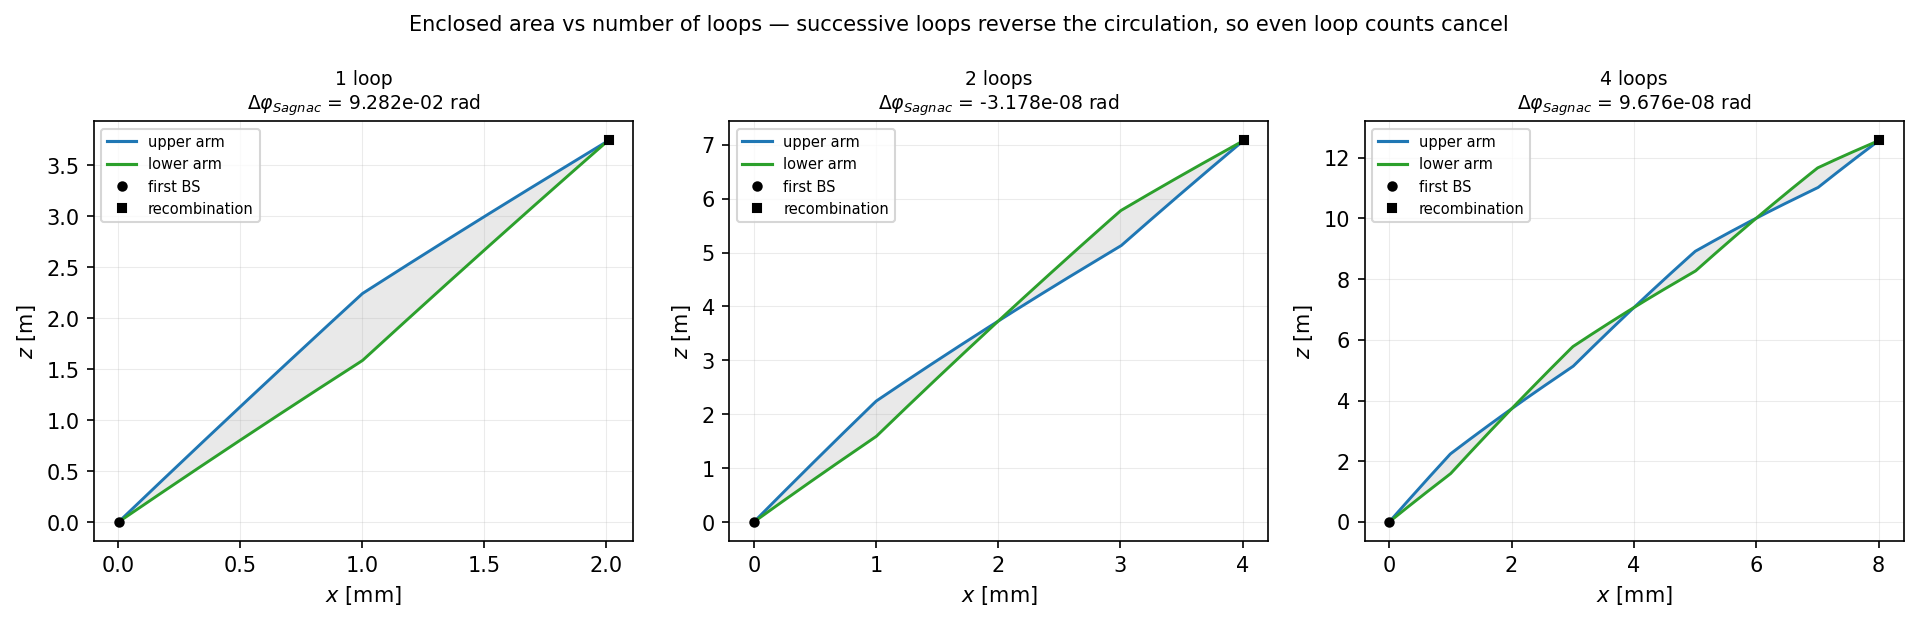
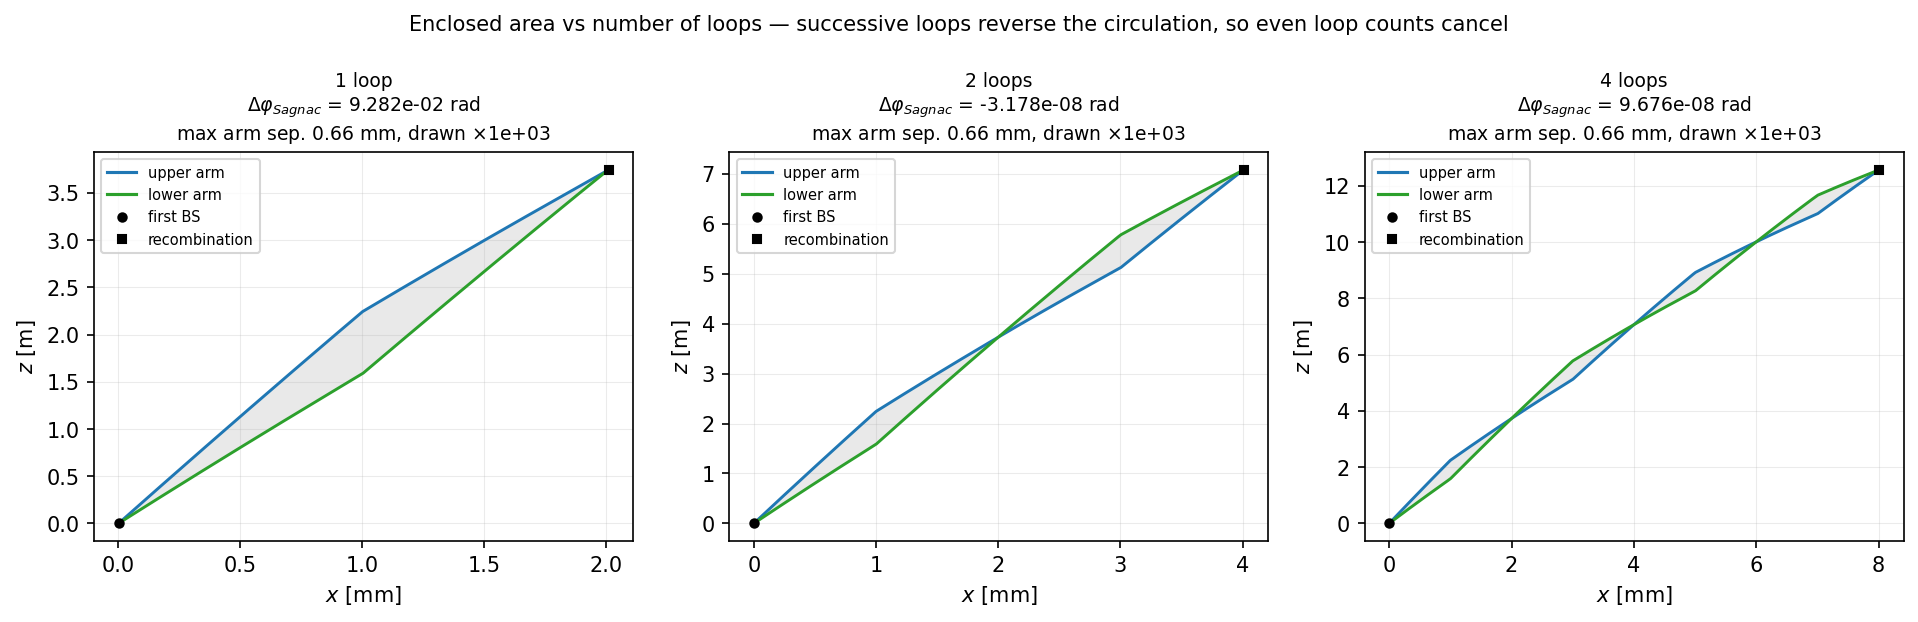
Add long-baseline examples and study what closes a rotating interferometer
Long-baseline configuration: T = 1.25 s with the launch velocity chosen so the
atom returns to its starting height at recombination, giving 2.5 / 5 / 10 s of
total free fall and 7.7 / 31 / 123 m apex for 1, 2 and 4 loops. A single loop
encloses 1.0e-4 m^2 and accumulates 14.5 rad of Sagnac phase; even loop counts
still cancel to ~1e-5 rad.

Closure study. A Mach-Zehnder does not close in a rotating frame: the arms
differ by the recoil velocity hbar k/m along k, the Coriolis force acts on that
difference, and they end up transversely separated by

    dx = 2 Omega_perp (hbar k / m) T^2

which the simulation reproduces to 0.05%. This is a *differential* effect, so no
common-mode launch velocity removes it -- scanning v0x from 0 to 0.2 m/s (and
v0y likewise) leaves the residual unchanged to nine significant figures. What
does work is counter-rotating k_eff with the frame, the simulation counterpart
of a tip-tilt retroreflector. apply_tilt_compensation() rewrites the per-pulse
kx/ky so k is held fixed in the inertial frame,

    k(t) = k(0) - (Omega x k(0)) t,

which shrinks the opening by ~1e6; the residual grows linearly with any
mismatch in the tilt rate and changes sign through the matched value. Eight new
end-to-end checks cover all of this (27 total, up from 19).

Figure fixes. The loop-comparison panels dropped the separation-exaggeration
factor that plot_trajectory_planes puts in its titles, so the arms looked metres
[…]

diff --git a/tests/make_coriolis_figures.py b/tests/make_coriolis_figures.py
@@ -27,6 +27,9 @@ coriolis_fountain.png              long: uniform gravity + Coriolis, the full
                                    parabolic fountain and its deflections
 coriolis_longbaseline_planes.png   long: arm traces on the three planes
 coriolis_longbaseline_loops.png    long: 1/2/4-loop enclosed areas, 2.5-10 s
+coriolis_closure.png               long: why no launch velocity closes a
+                                   rotating-frame interferometer, and how
+                                   counter-rotating k does
 
 The rotation vector is Earth's, oriented for latitude 45 deg with z vertical and
 x pointing east, so all three coordinate planes carry some signal.
@@ -255,6 +258,89 @@ def fig_loops(runs, outdir, name, loops=(1, 2, 4), labels=None):
     return p
 
 
+# ── figure: what actually closes the interferometer ──────────────────────────
+
+def fig_closure(outdir, workdir):
+    """
+    A Mach-Zehnder does not close in a rotating frame. Show why no launch
+    velocity fixes it, and what does.
+    """
+    T, L = 1.25, 1
+    hbar, mass = 1.054571817e-34, 86.90888 * 1.660539066e-27
+    u = hbar * cc.K_EFF / mass                       # single-photon recoil
+    predicted = 2 * OMEGA_VEC[1] * u * T * T
+
+    def case(tag, **kw):
+        r = cc.run_case(tag, workdir, utype=POT, rotation=OMEGA_VEC,
+                        loopnumber=L, interrogation_time=T, fountain=True,
+                        ultrafast=1, printtrajectory=True, **kw)
+        up, lo = arms(r)
+        t, ip = common_grid(up, lo)
+        return t, np.array([ip(up, k) - ip(lo, k) for k in 'xyz'])
+
+    v0x_list = [0.0, 0.01, 0.05, 0.2]
+    vel_runs = [(v, case(f'close_vx{v}', v0x=v)) for v in v0x_list]
+    tilt_scan = [0.0, 0.5, 0.9, 1.0, 1.1, 1.5, 2.0]
+    tilt_runs = [(f, case(f'close_tilt{f}', v0x=0.01,
+                          tilt_compensation=OMEGA_VEC * f)) for f in tilt_scan]
+
+    fig, axs = plt.subplots(1, 3, figsize=(14, 4.4))
+
+    # (a) launch velocity does nothing to the closure
+    cmap = plt.get_cmap('viridis')
+    for i, (v, (t, d)) in enumerate(vel_runs):
+        axs[0].plot(t, d[0] * 1e9, lw=1.4, color=cmap(i / max(1, len(vel_runs) - 1)),
+                    label=f'$v_{{0x}}$ = {v:g} m/s')
+    axs[0].axhline(-predicted * 1e9, color='k', ls=':', lw=1.0)
+    axs[0].annotate('$-2\\,\\Omega_\\perp\\,(\\hbar k/m)\\,T^2$',
+                    xy=(t[len(t)//2], -predicted * 1e9), fontsize=8,
+                    xytext=(0.08, 0.12), textcoords='axes fraction',
+                    arrowprops=dict(arrowstyle='->', lw=0.8))
+    axs[0].set_ylabel('$\\Delta x$ between arms [nm]')
+    axs[0].set_title('(a) launch velocity cannot close it —\n'
+                     'all four curves coincide', fontsize=9)
+    axs[0].legend(fontsize=7)
+
+    # (b) tilting the wavevector does
+    for i, (f, (t, d)) in enumerate(tilt_runs):
+        lw = 2.0 if f == 1.0 else 1.1
+        col = '#d62728' if f == 1.0 else cmap(i / max(1, len(tilt_runs) - 1))
+        axs[1].plot(t, d[0] * 1e9, lw=lw, color=col,
+                    label=f'{f:g}$\\,\\Omega$' + (' (matched)' if f == 1.0 else ''))
+    axs[1].set_ylabel('$\\Delta x$ between arms [nm]')
+    axs[1].set_title('(b) counter-rotating $\\vec{k}$ does:\n'
+                     'tilt rate as a fraction of $\\Omega$', fontsize=9)
+    axs[1].legend(fontsize=7, ncol=2)
+
+    # (c) residual vs tilt rate
+    resid = [abs(d[0][-1]) for _, (t, d) in tilt_runs]
+    axs[2].plot(tilt_scan, np.array(resid) * 1e9, 'o-', color='#1f77b4', lw=1.4)
+    axs[2].set_yscale('log')
+    axs[2].set_xlabel('tilt rate / $\\Omega$')
+    axs[2].set_ylabel('$|\\Delta x|$ at recombination [nm]')
+    axs[2].set_title('(c) residual opening vs tilt rate\n'
+                     f'{resid[0]*1e9:.0f} nm $\\rightarrow$ '
+                     f'{resid[tilt_scan.index(1.0)]*1e12:.2f} pm at matched rate',
+                     fontsize=9)
+
+    for ax in axs[:2]:
+        ax.set_xlabel('$t$ [s]')
+    for ax in axs:
+        ax.grid(alpha=0.25, lw=0.5)
+        ax.axhline(0, color='k', lw=0.6, alpha=0.4)
+
+    fig.suptitle('Closing a rotating-frame interferometer. The arms differ by the '
+                 'recoil velocity $\\hbar k/m$ along $\\vec{k}$, and the Coriolis '
+                 'force acts on that difference — a *differential* effect, so no '
+                 'common-mode launch velocity can undo it.', fontsize=11)
+    fig.tight_layout()
+    p = save(fig, outdir, 'coriolis_closure.png')
+    print(f'      predicted opening 2*Om*(hbar k/m)*T^2 = {predicted:.4e} m')
+    for f, (t, d) in tilt_runs:
+        print(f'      tilt {f:4.2f} x Omega -> |dx| = {abs(d[0][-1]):.4e} m')
+    return p
+
+
 def save(fig, outdir, name):
     p = os.path.join(outdir, name)
     fig.savefig(p, dpi=150, bbox_inches='tight')
@@ -295,9 +381,10 @@ def main():
                    'long-baseline fountain: $T$ = 1.25 s, 2.5 s free fall, '
                    '7.7 m apex')
         fig_loops(runs, outdir, 'coriolis_longbaseline_loops.png',
-                  labels=['1 loop\n2.5 s, 7.7 m',
-                          '2 loops\n5.0 s, 31 m',
-                          '4 loops\n10.0 s, 123 m'])
+                  labels=['1 loop — 2.5 s, 7.7 m',
+                          '2 loops — 5.0 s, 31 m',
+                          '4 loops — 10.0 s, 123 m'])
+        fig_closure(outdir, workdir)
 
 
 if __name__ == '__main__':

diff --git a/tests/coriolis_common.py b/tests/coriolis_common.py
@@ -66,7 +66,8 @@ K_EFF = float(kz)
 
 
 def build_param_dict(utype='linear_pot', rotation=None, loopnumber=1,
-                     interrogation_time=None, v0x=None, printtrajectory=False,
+                     interrogation_time=None, v0x=None, v0y=0.0,
+                     printtrajectory=False,
                      rabi_freq=None, v0z=None, fountain=False,
                      ultrafast=0, qag_abs=1e-13, qag_rel=1e-13):
     """
@@ -106,7 +107,7 @@ def build_param_dict(utype='linear_pot', rotation=None, loopnumber=1,
             'longtemp':     0,
             'transtemp':    0,
             'x0':           [0.0, 0.0, 0.0],
-            'v0':           [float(vx), 0.0, float(vz)],
+            'v0':           [float(vx), float(v0y), float(vz)],
         },
         'potential_params': potential_params,
         'sequence_params': {
@@ -174,7 +175,69 @@ def build_param_dict(utype='linear_pot', rotation=None, loopnumber=1,
     }
 
 
-def run_case(name, workdir, **kwargs):
+def apply_tilt_compensation(aisi_path, omega):
+    """
+    Rewrite the kx/ky lines of an .aisi file so that the effective wavevector is
+    held fixed in the *inertial* frame rather than in the rotating one.
+
+    This is the simulation counterpart of counter-rotating the retroreflector
+    ("tip-tilt compensation"), the standard way real experiments recover the
+    contrast a rotating frame would otherwise destroy.
+
+    Why it is needed: a Mach-Zehnder does not close in a rotating frame. The two
+    arms differ by the recoil velocity u = hbar k / m along k, and the Coriolis
+    acceleration -2 Omega x v acts on that difference, leaving the arms
+    transversely separated by 2 |Omega_perp| u T^2 at recombination. That is a
+    *differential* effect, so no common-mode launch velocity can undo it -- only
+    changing the direction of the momentum kicks can.
+
+    Holding k fixed in inertial space means its rotating-frame components obey
+    k(t) = R(-Omega t) k(0), i.e. to first order in Omega t
+
+        k(t) = k(0) - (Omega x k(0)) t.
+
+    Each pulse gets the tilt appropriate to its own firing time, with the sign
+    following that pulse's beam direction.
+    """
+    omega = np.asarray(omega, dtype=float)
+
+    lines = open(aisi_path).read().splitlines()
+    values = {}
+    for ln in lines:
+        parts = ln.split()
+        if parts and parts[0] in ('t0', 'kx', 'ky', 'kz'):
+            values[parts[0]] = [float(x) for x in parts[1:]]
+
+    for key in ('t0', 'kx', 'ky', 'kz'):
+        if key not in values:
+            raise RuntimeError(f'{aisi_path}: no "{key}" line to tilt-compensate')
+
+    t0, kx, ky, kz = values['t0'], values['kx'], values['ky'], values['kz']
+    if not (len(t0) == len(kx) == len(ky) == len(kz)):
+        raise RuntimeError(f'{aisi_path}: pulse arrays have inconsistent lengths')
+
+    new_kx, new_ky = [], []
+    for t, x, y, z in zip(t0, kx, ky, kz):
+        k = np.array([x, y, z])
+        tilted = k - np.cross(omega, k) * t
+        # plain Python floats: repr() of a numpy scalar is "np.float64(...)" on
+        # numpy >= 2, which the ais++ parser silently fails to read
+        new_kx.append(float(tilted[0]))
+        new_ky.append(float(tilted[1]))
+
+    out = []
+    for ln in lines:
+        parts = ln.split()
+        if parts and parts[0] == 'kx':
+            out.append('kx ' + ' '.join(f'{v:.17g}' for v in new_kx) + ' ')
+        elif parts and parts[0] == 'ky':
+            out.append('ky ' + ' '.join(f'{v:.17g}' for v in new_ky) + ' ')
+        else:
+            out.append(ln)
+    open(aisi_path, 'w').write('\n'.join(out) + '\n')
+
+
+def run_case(name, workdir, tilt_compensation=None, **kwargs):
     """
     Build an input, run ais++, and return a dict with the interfering phase
     shift and the paths of the output files.
@@ -188,6 +251,9 @@ def run_case(name, workdir, **kwargs):
     out  = os.path.join(workdir, name + '.h5')
     prob = os.path.join(workdir, name + '_PROB.h5')
     traj = os.path.join(workdir, name + '_TRAJ.h5')
+
+    if tilt_compensation is not None:
+        apply_tilt_compensation(aisi, tilt_compensation)
 
     proc = subprocess.run([AISPP_BIN, '-i', aisi, '-o', out],
                           capture_output=True, text=True)

diff --git a/tests/test_coriolis_e2e.py b/tests/test_coriolis_e2e.py
@@ -302,6 +302,59 @@ def test_closure():
               f'{gaps[L]:.3e} m vs {gaps[1]:.3e} m at L=1')
 
 
+# ── 8. what closes a rotating-frame interferometer ───────────────────────────
+
+def test_tilt_compensation():
+    section('8. Closing the interferometer: launch velocity vs tilting k')
+
+    from aispy.trajectory import arm_loop
+
+    T = float(cc.INTERROGATION_TIME)
+    recoil_v = 1.054571817e-34 * cc.K_EFF / (86.90888 * 1.660539066e-27)
+    predicted = 2 * OMEGA * recoil_v * T * T
+
+    def sep(tag, **kw):
+        ref = run(tag, utype='rotating_linear_pot', rotation=[0, OMEGA, 0],
+                  loopnumber=1, printtrajectory=True, **kw)
+        loop = arm_loop(load_trajectory(ref['trajectory']),
+                        potential='rotating_linear_pot')
+        return (loop['upper'] - loop['lower'])[-1]
+
+    # (a) the opening is exactly the predicted differential Coriolis effect
+    base = sep('TC_base')
+    check_close(abs(base[0]), predicted, 1e-3,
+                'transverse opening equals 2 Omega (hbar k/m) T^2')
+
+    # (b) no launch velocity changes it: the opening is differential, and a
+    # launch velocity is common mode
+    for v0x in (0.05, 0.2):
+        d = sep(f'TC_vx{v0x}', v0x=v0x)
+        check_close(d[0], base[0], 1e-9,
+                    f'launch velocity v0x={v0x} does not change the opening')
+    d = sep('TC_vy', v0y=0.05)
+    check_close(d[0], base[0], 1e-9, 'launch velocity v0y does not change it either')
+
+    # (c) counter-rotating k_eff with the frame does close it
+    omega_vec = np.array([0.0, OMEGA, 0.0])
+    matched = sep('TC_tilt1', v0x=0.01, tilt_compensation=omega_vec)
+    print(f'    uncompensated |dx| = {abs(base[0]):.4e} m')
+    print(f'    tilt-compensated   = {abs(matched[0]):.4e} m')
+    check(abs(matched[0]) < 1e-4 * abs(base[0]),
+          'counter-rotating k closes the interferometer',
+          f'reduced by {abs(base[0])/abs(matched[0]):.3g}x')
+
+    # (d) a mismatched tilt leaves a residual proportional to the mismatch,
+    # which is what pins the mechanism down
+    half = sep('TC_tilt05', v0x=0.01, tilt_compensation=0.5 * omega_vec)
+    over = sep('TC_tilt15', v0x=0.01, tilt_compensation=1.5 * omega_vec)
+    check_close(abs(half[0]), 0.5 * abs(base[0]), 1e-3,
+                'half tilt leaves half the opening')
+    check_close(abs(over[0]), 0.5 * abs(base[0]), 1e-3,
+                'over-tilting by the same amount overshoots symmetrically')
+    check(np.sign(half[0]) == -np.sign(over[0]),
+          'the residual changes sign through the matched tilt rate')
+
+
 def main():
     ap = argparse.ArgumentParser()
     ap.add_argument('--quick', action='store_true',
@@ -321,6 +374,7 @@ def main():
     test_centrifugal()
     test_multiloop(args.quick)
     test_closure()
+    test_tilt_compensation()
 
     print(f'\n{_checks} checks, {_failures} failures  '
           f'({len(_cache)} simulations, {time.time()-t0:.1f} s)')

diff --git a/README.md b/README.md
@@ -118,6 +118,33 @@ rather than the simulated phase. It is needed because the action reaches $\sim10
 multi-second flight, which puts the tight absolute quadrature tolerance the short runs use below
 double precision — loosen `gslqagabserr` if you need the action phase at these timescales.
 
+These examples use `lmt_order 1`, i.e. a single photon recoil, not LMT. The arm separation is
+$\hbar k/m \cdot T$ = 6.57 mm/s × 1.25 s = **8.2 mm** — large because $T$ is long, not because of
+LMT. In the plane plots the separation is drawn exaggerated by the factor stated in each panel.
+
+### Closing the interferometer
+
+A Mach–Zehnder **does not close** in a rotating frame. The two arms differ by the recoil velocity
+$\hbar k/m$ along $\vec k$, and the Coriolis force $-2\vec\Omega\times\dot{\vec r}$ acts on that
+difference, leaving them transversely separated at recombination by
+
+$$\Delta x = 2\,\Omega_\perp\,\frac{\hbar k}{m}\,T^2$$
+
+which the simulation reproduces to 0.05 %. Because this is a *differential* effect, **no
+common-mode launch velocity removes it** — scanning $v_{0x}$ from 0 to 0.2 m/s leaves the residual
+unchanged to nine significant figures. What does work is counter-rotating $\vec k_\mathrm{eff}$
+with the frame, the simulation counterpart of a tip-tilt retroreflector:
+`coriolis_common.apply_tilt_compensation` rewrites the per-pulse `kx`/`ky` so that
+$\vec k$ is held fixed in the *inertial* frame, $\vec k(t) = \vec k(0) - (\vec\Omega\times\vec k(0))\,t$.
+
+![Launch velocity cannot close a rotating-frame interferometer, but counter-rotating the
+wavevector can.](examples/coriolis/coriolis_closure.png)
+
+*(a) Four launch velocities spanning 0–0.2 m/s give identical arm openings, all landing on
+$-2\Omega_\perp(\hbar k/m)T^2$. (b) Counter-rotating $\vec k$ at a fraction of $\Omega$; the matched
+rate brings the arms back together. (c) The residual falls by $\sim10^6$ at the matched rate and
+grows linearly with the mismatch, changing sign through it.*
+
 ### Tests
 
 ```bash
@@ -135,6 +162,13 @@ The end-to-end suite decomposes the phase into parts odd and even in $\vec\Omega
 $\pm\vec\Omega$), which cleanly separates the Sagnac term from the centrifugal one. It confirms
 the odd part against $2m\vec\Omega\cdot\vec A/\hbar$ to $2\times10^{-5}$, its linearity in
 $\Omega$ to $7\times10^{-5}$, and its $T^2$ scaling to $8\times10^{-4}$.
+
+Note the Sagnac phases quoted on the figures are computed **geometrically**, from
+$2m\vec\Omega\cdot\vec A/\hbar$ with $\vec A$ the area enclosed by the simulated trajectories — not
+read back from the ais++ phase output. The end-to-end tests are what tie the two together.
+Trajectory curves are real `_TRAJ.h5` snapshots at every pulse boundary, joined by the *exact*
+free-flight solution between pulses (a matrix exponential in the rotating case), so the
+interpolation introduces no error.
 
 ## Examples
 
